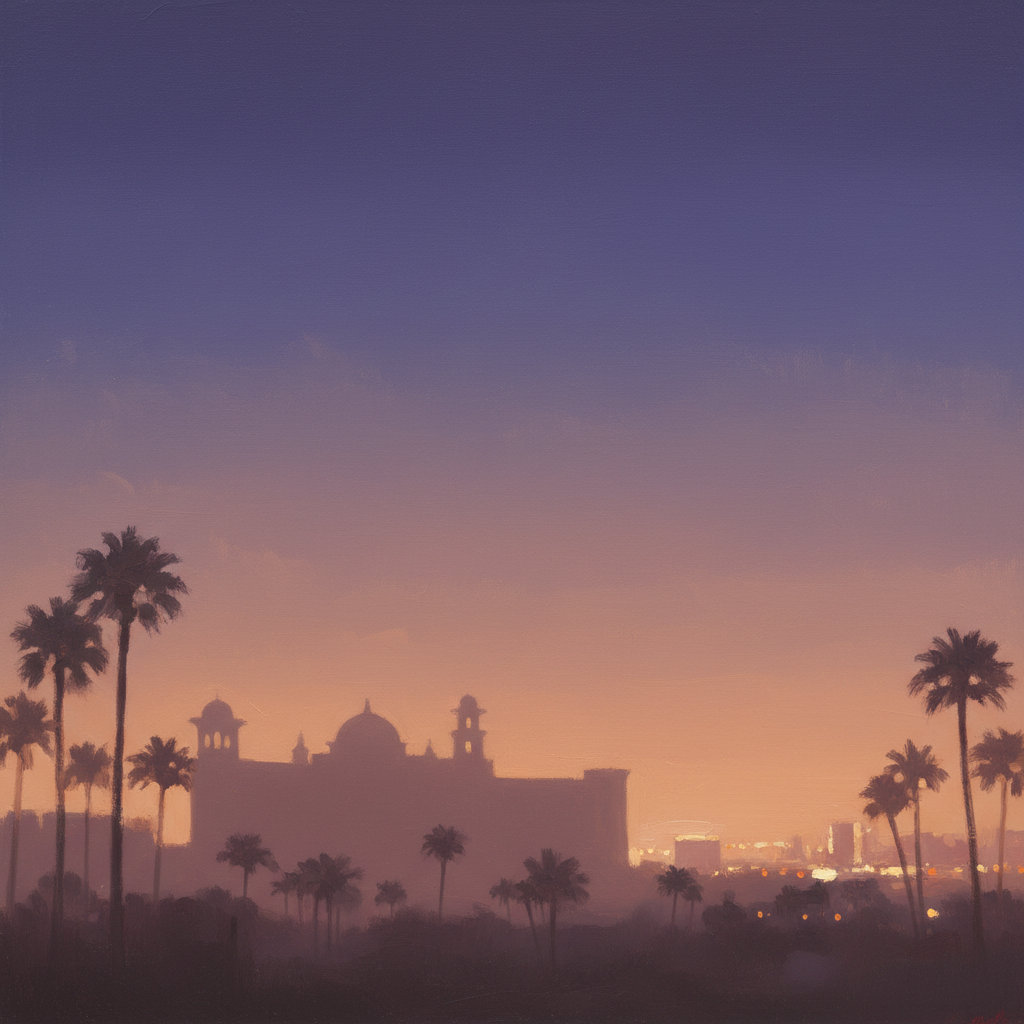
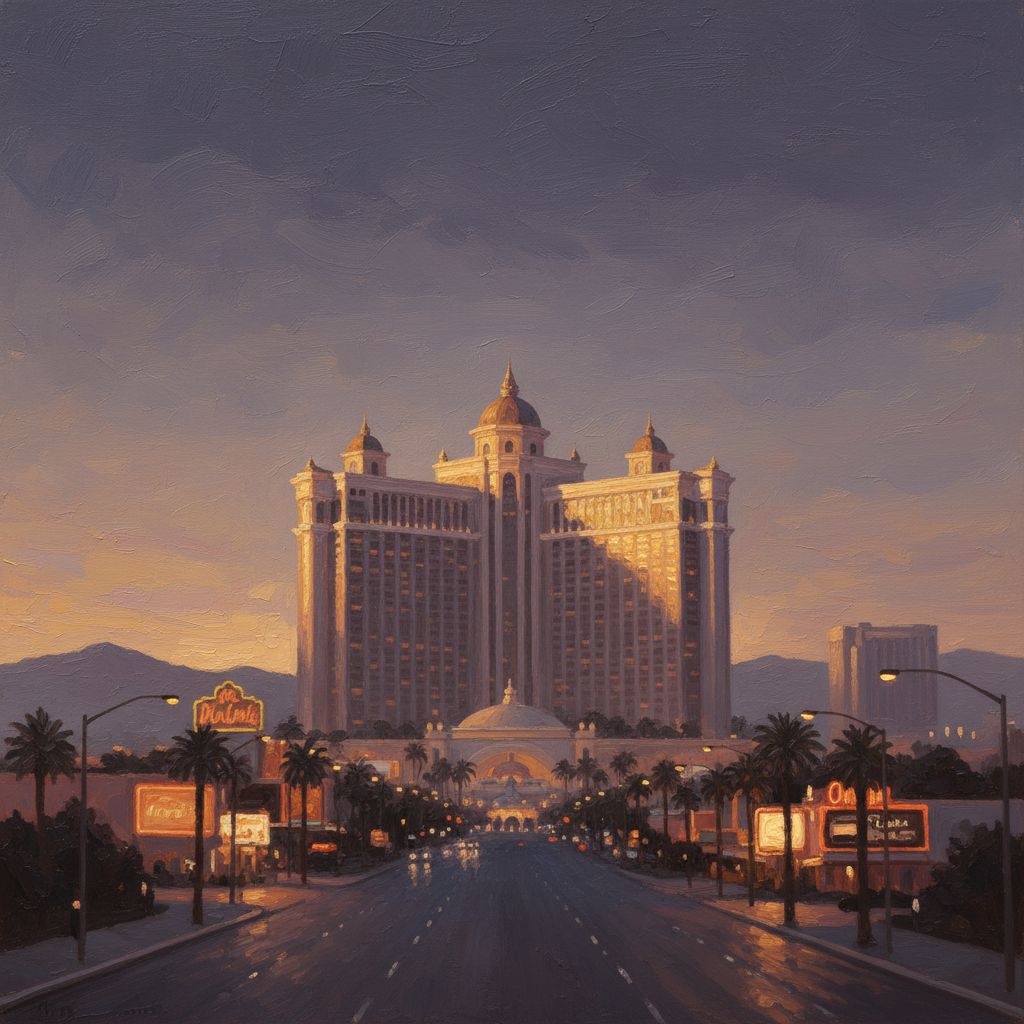
m7 Three Assets: add personal Boeing photo, regenerate Mirage image, unlock Module 7
- Personal Boeing photo (Md Dehghani thumbs up in front of Boeing logo
  signage) added at images/m7/dehghani-boeing.jpg. Polaroid placeholder
  text removed; the photo now shows in the polaroid frame pinned to the
  page-3 hero. Caption is "Prof. MD · at Boeing".
- Las Vegas image regenerated — v1 was too sparse with palm trees and
  a distant silhouette; v2 (Gemini) shows a clear three-tower resort
  dominating the frame at twilight with the Strip's first neon signs
  flickering on. Much stronger Vegas vibe.
- Module 7 unlocked in DEFAULT_AVAILABLE so the brief opens without
  the admin password.

diff --git a/courses/IE4512/m7-three-assets.html b/courses/IE4512/m7-three-assets.html
@@ -501,8 +501,7 @@
             <div class="photo" style="background-image: url('images/m7/boeing-747.png');"></div>
             <div class="polaroid">
               <div class="polaroid-photo"></div>
-              <div class="polaroid-caption">Prof. M.D. at Boeing</div>
-              <div class="placeholder">drop personal photo at<br>images/m7/dehghani-boeing.jpg</div>
+              <div class="polaroid-caption">Prof. MD &middot; at Boeing</div>
             </div>
             <div class="overlay">
               <div class="kicker">Everett, WA &middot; first flight 9 Feb 1969</div>

diff --git a/courses/IE4512/index.html b/courses/IE4512/index.html
@@ -339,7 +339,7 @@
 <script>
   // ============ CONFIG ============
   const ADMIN_PASSWORD = 'dehghani2026';
-  const DEFAULT_AVAILABLE = [1, 2, 3, 4, 5, 6];  // change later as the term progresses
+  const DEFAULT_AVAILABLE = [1, 2, 3, 4, 5, 6, 7];  // change later as the term progresses
   const STORAGE_KEY = 'ie4512_unlocked_v2';
 
   const ICON = {
